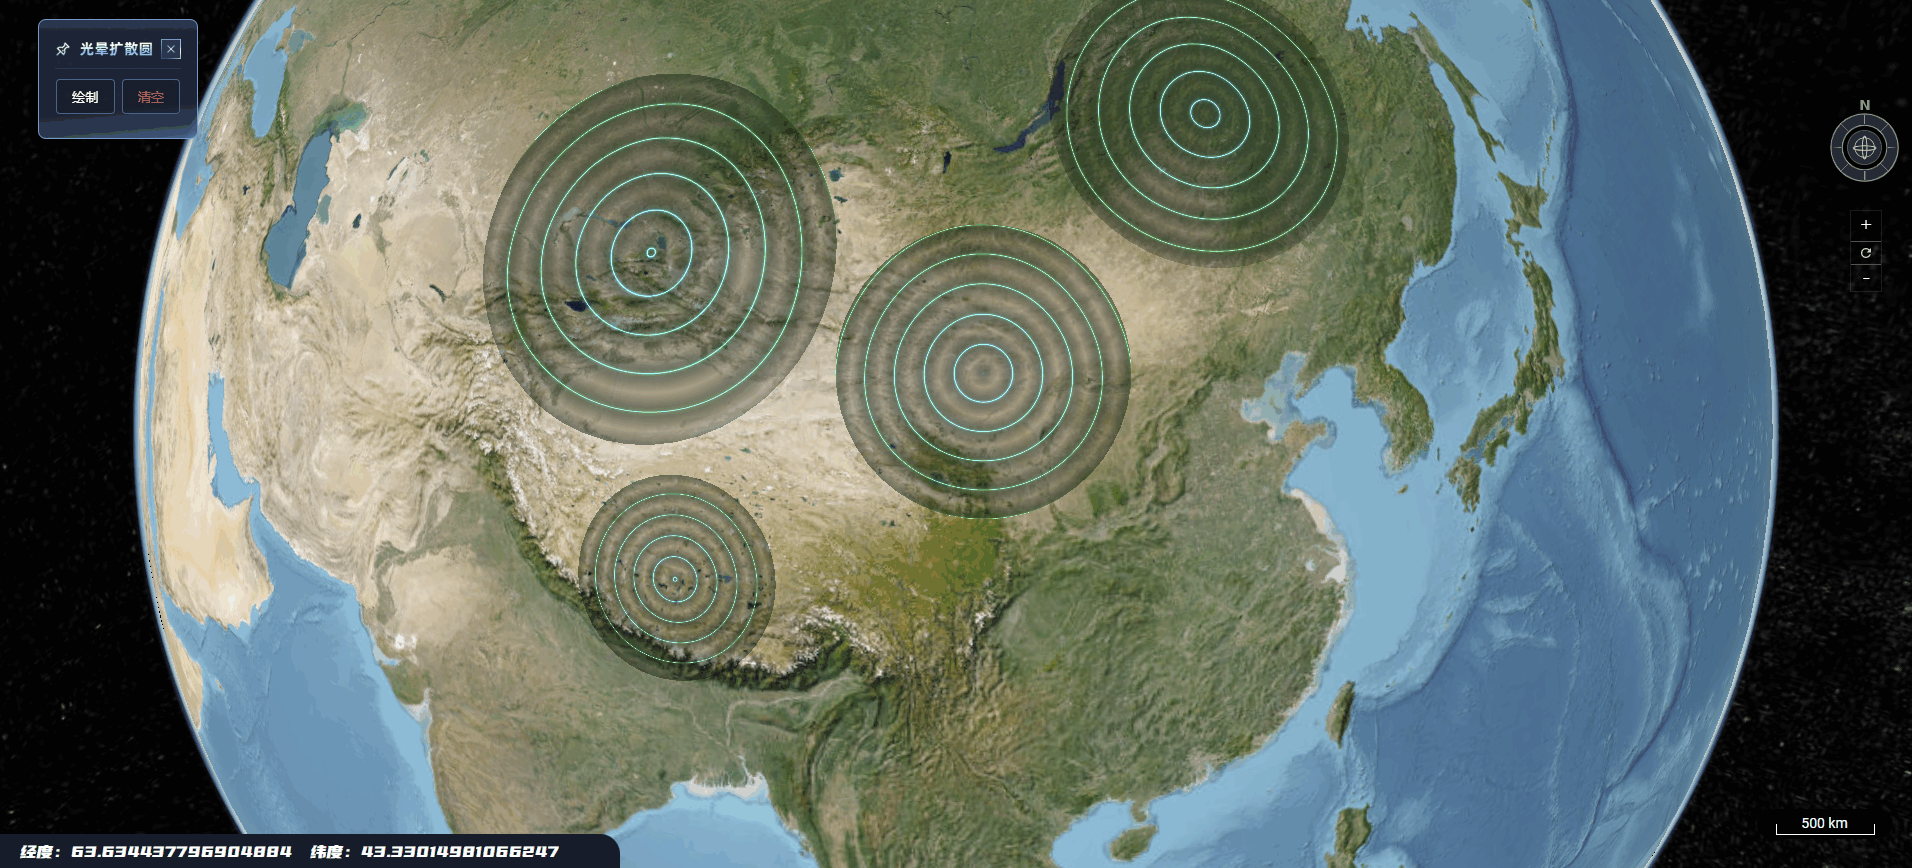
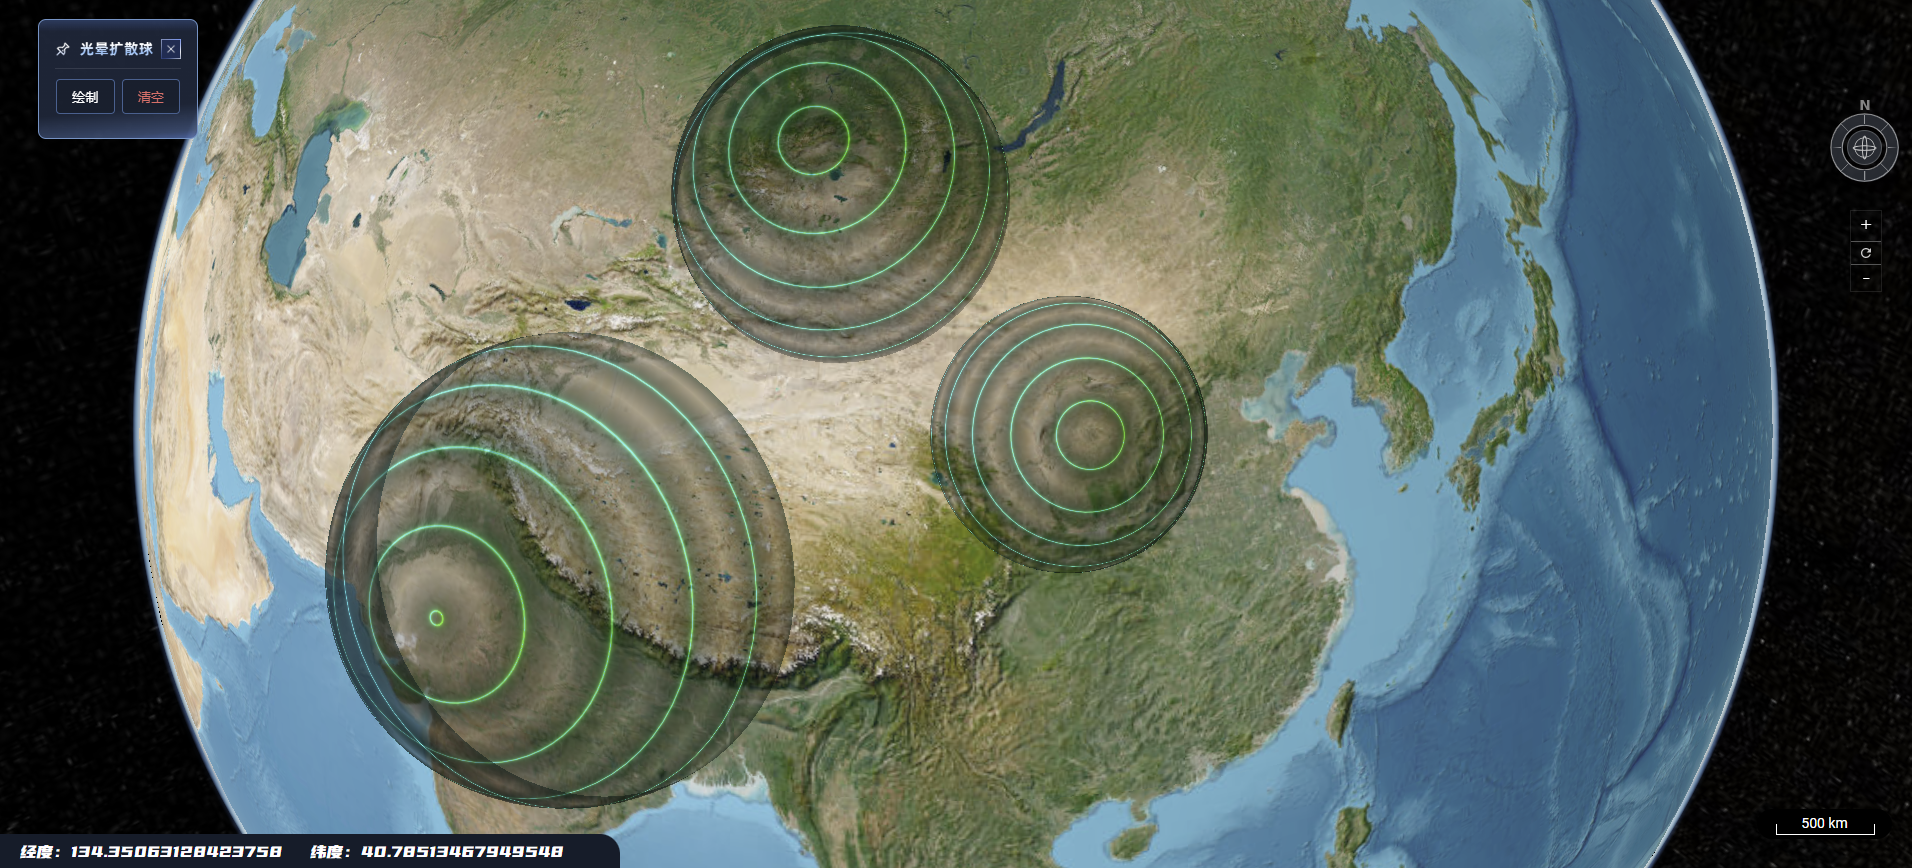
光晕扩散球体

diff --git a/src/components/example/specialEffectPlot/HaloCircle.vue b/src/components/example/specialEffectPlot/HaloCircle.vue
@@ -1,5 +1,5 @@
 <template>
-    <CommPanel title="光晕扩散圆" class="sector-panel-box">
+    <CommPanel title="光晕扩散球" class="sector-panel-box">
         <div class="sector-panel">
             <div class="btn-group">
                 <CommButton @click="drawCircle">绘制</CommButton>
@@ -25,14 +25,24 @@ onMounted(() => {
 const drawCircle = () => {
     let { material } = haloAppearance(viewer);
     draw.drawCircle((p, d) => {
-        let primitive = new Cesium.GroundPrimitive({
+        // let primitive = new Cesium.GroundPrimitive({
+        //     geometryInstances: new Cesium.GeometryInstance({
+        //         geometry: new Cesium.EllipseGeometry({
+        //             center: p[0],
+        //             semiMajorAxis: d,
+        //             semiMinorAxis: d,
+        //             vertexFormat: Cesium.VertexFormat.ALL,
+        //         }),
+        //     }),
+        //     appearance: material,
+        // });
+        let primitive = new Cesium.Primitive({
             geometryInstances: new Cesium.GeometryInstance({
-                geometry: new Cesium.EllipseGeometry({
-                    center: p[0],
-                    semiMajorAxis: d,
-                    semiMinorAxis: d,
-                    vertexFormat: Cesium.VertexFormat.ALL,
+                geometry: new Cesium.EllipsoidGeometry({
+                    radii: new Cesium.Cartesian3(d, d, d),
+                    maximumCone: Cesium.Math.PI_OVER_TWO,
                 }),
+                modelMatrix: Cesium.Transforms.eastNorthUpToFixedFrame(p[0]),
             }),
             appearance: material,
         });

diff --git a/src/secdev/specialEffectPlot/polygon/haloAppearance.ts b/src/secdev/specialEffectPlot/polygon/haloAppearance.ts
@@ -4,7 +4,7 @@
  * @LastEditors: Xingtao 362042734@qq.com
  * @LastEditTime: 2024-06-26 14:34:31
  * @FilePath: \cesium-secdev-set\src\secdev\specialEffectPlot\polygon\haloAppearance.ts
- * @Description: 光晕扩散圆材质
+ * @Description: 光晕扩散球体材质
  */
 
 import { Color, Viewer } from "cesium";
@@ -44,7 +44,10 @@ export default function(viewer: Viewer, option: Partial<haloOptionType> = {}){
                     uniform vec4 outColor;
 
                     vec4 drawCircle(vec2 pos, vec3 color) {
-                        float dist1 = length(pos);
+                        // 平面圆扩散可用
+                        // float dist1 = length(pos);
+                        // 半球扩散可用
+                        float dist1 = -pos.y;
                         dist1 = fract((dist1 * 5.0) - fract(time));
                         float dist2 = dist1 - radius;
                         float intensity = pow(radius / abs(dist2), width);
